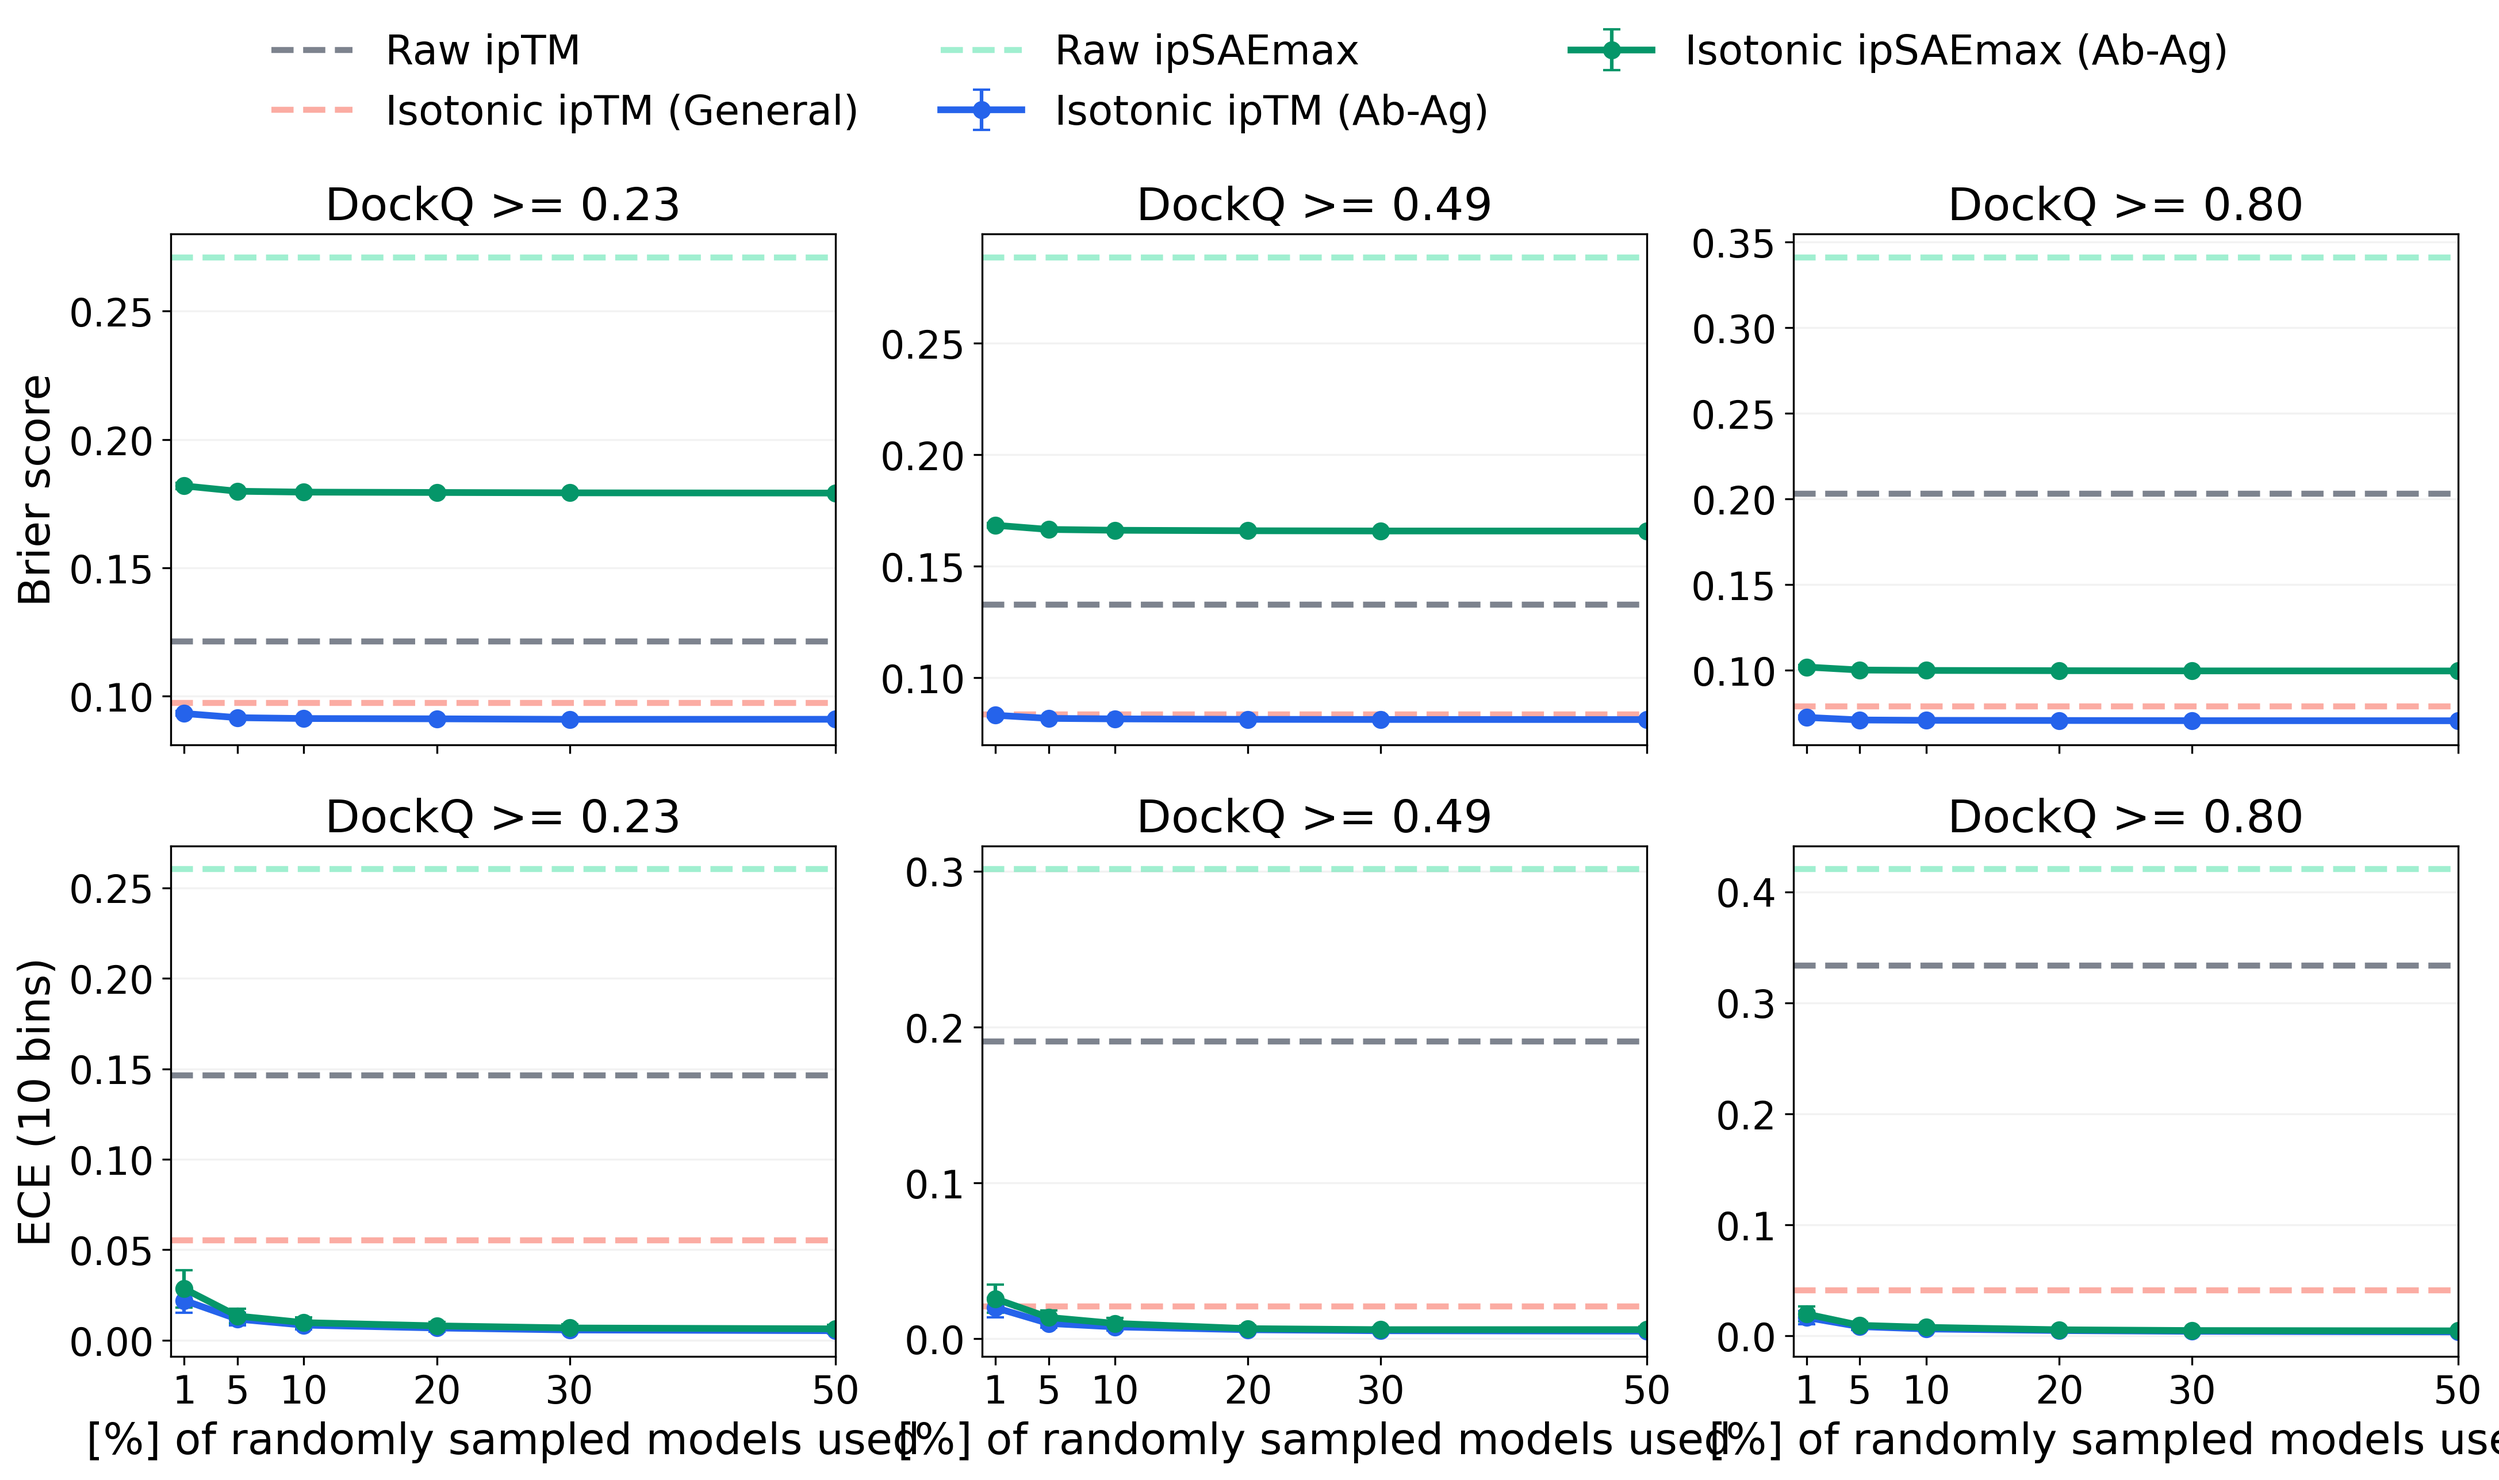
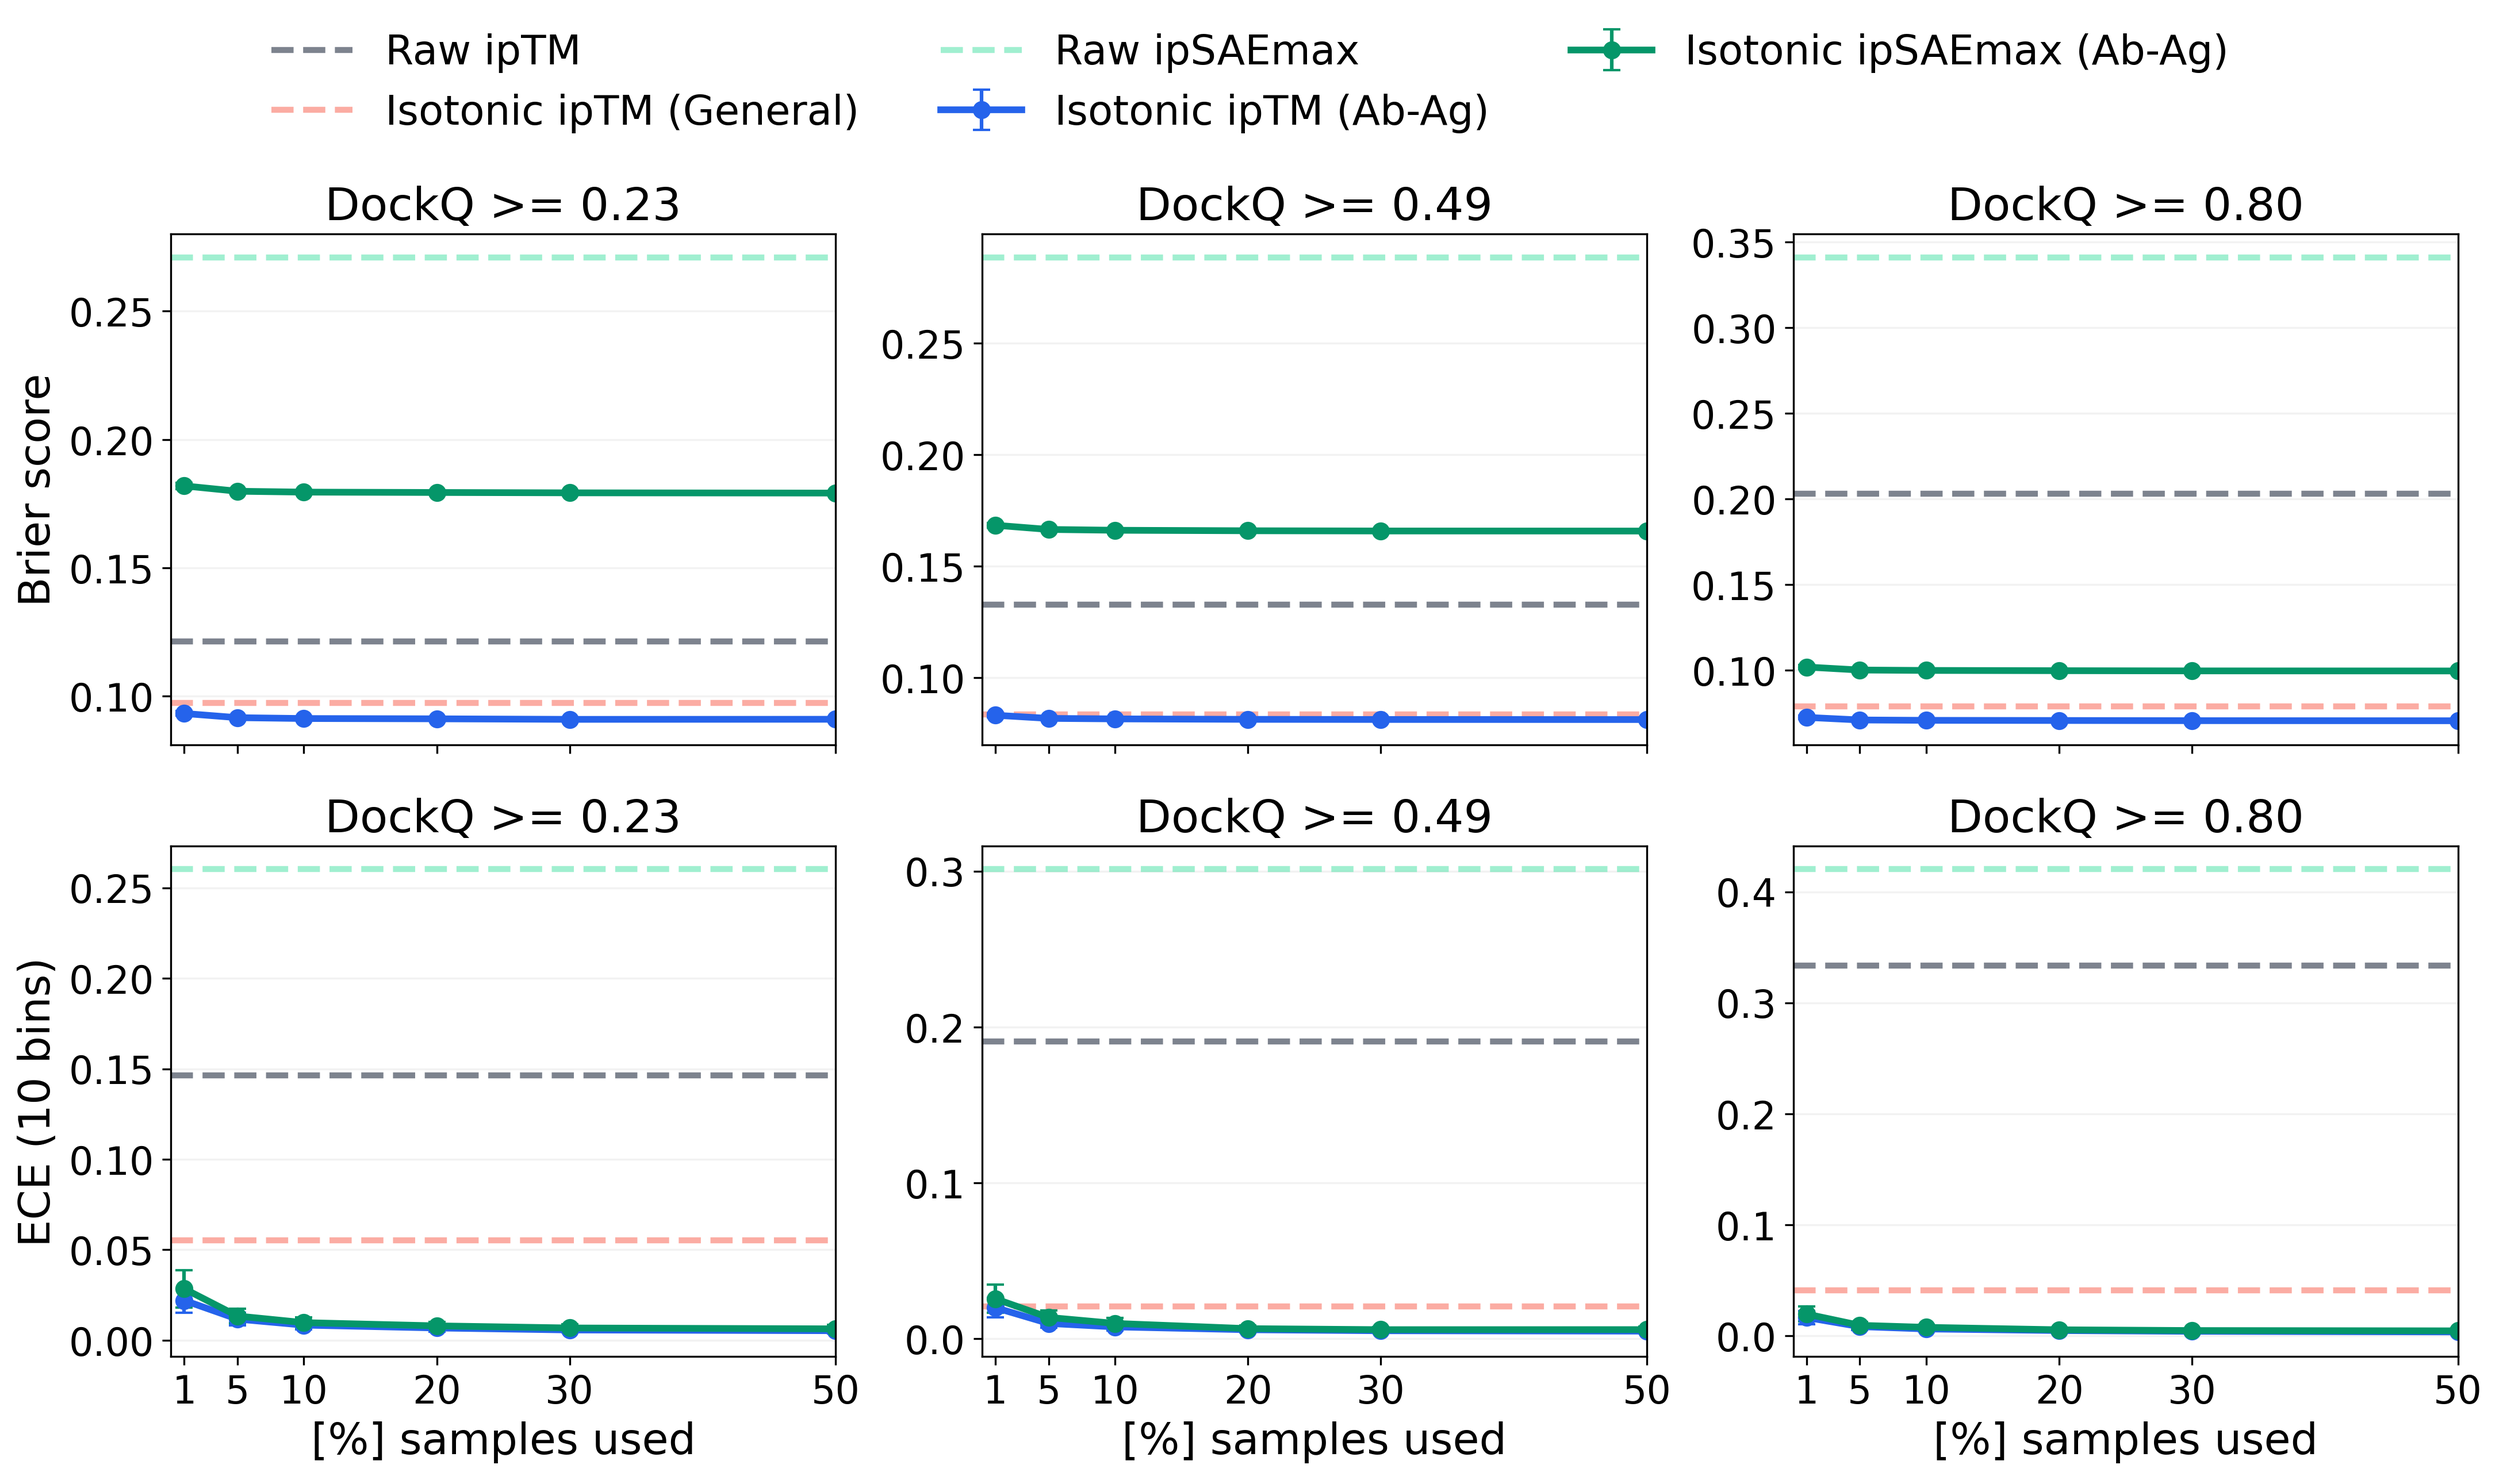
Shorten model-random calibration x-axis label

Changed region(s): [[0.0311, 0.9631, 1.0, 0.9942]]

diff --git a/scripts/compute_workshop_abag_recalibration.py b/scripts/compute_workshop_abag_recalibration.py
@@ -317,4 +317,4 @@ if __name__ == "__main__":
     target_grouped = compute()
     render(target_grouped, "F3_workshop_abag_recalibration_candidate", "[%] of unique complexes used")
     model_random = compute_model_random()
-    render(model_random, "F3_workshop_abag_recalibration_model_random_candidate", "[%] of randomly sampled models used")
+    render(model_random, "F3_workshop_abag_recalibration_model_random_candidate", "[%] samples used")
